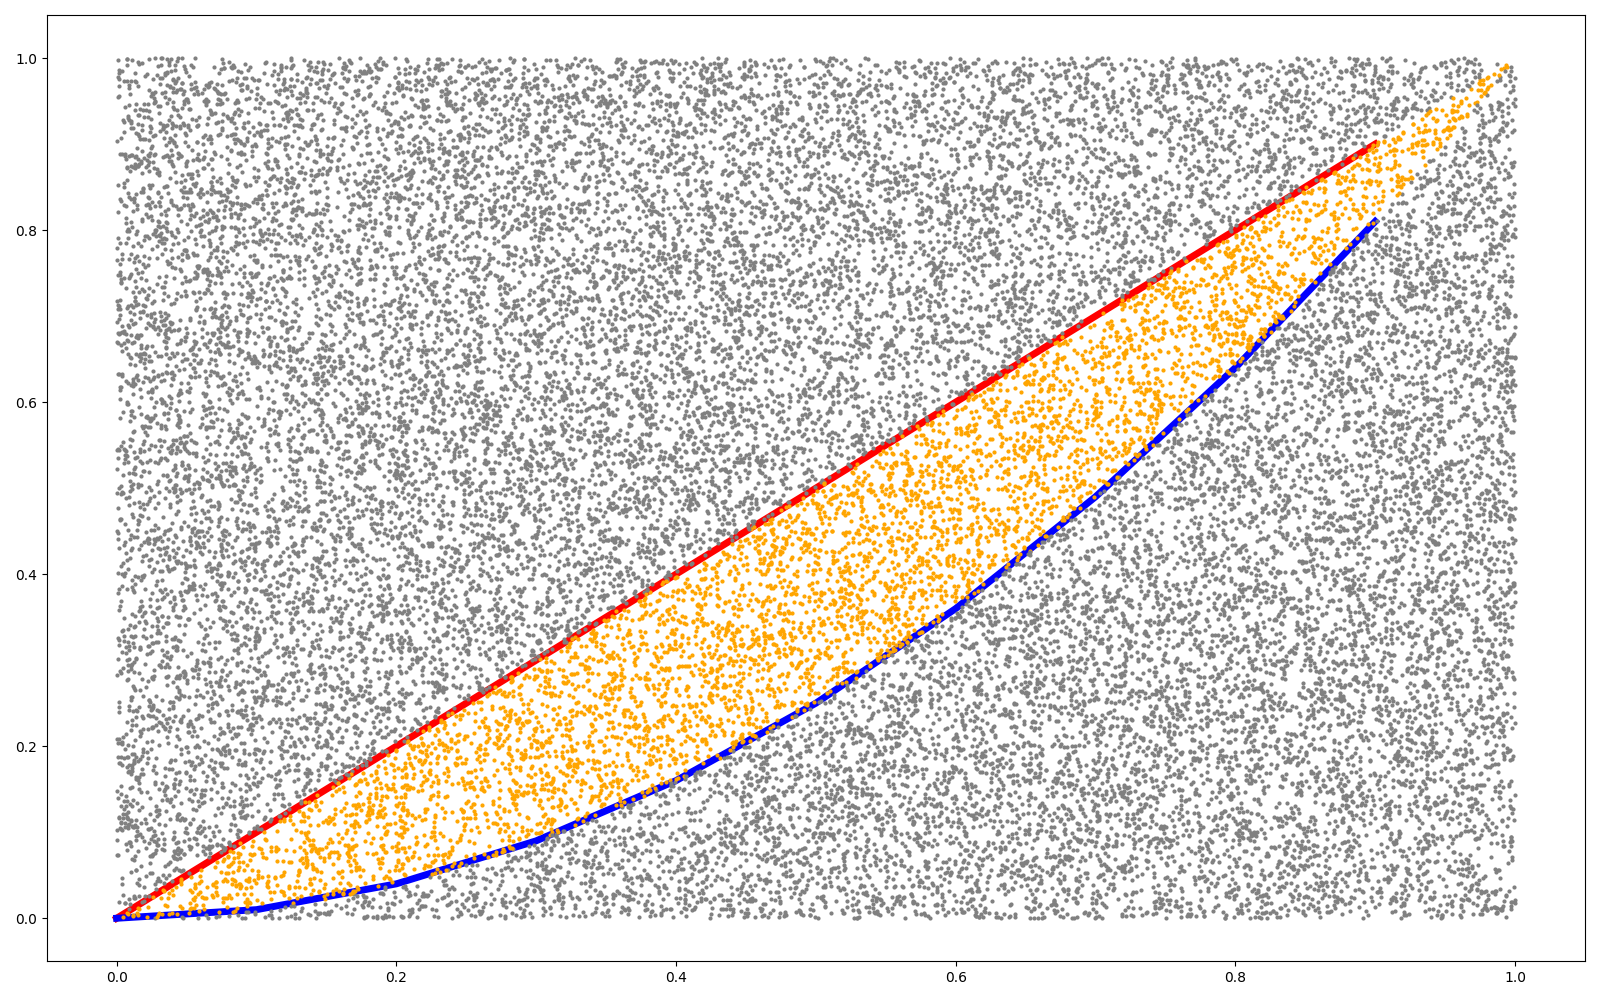
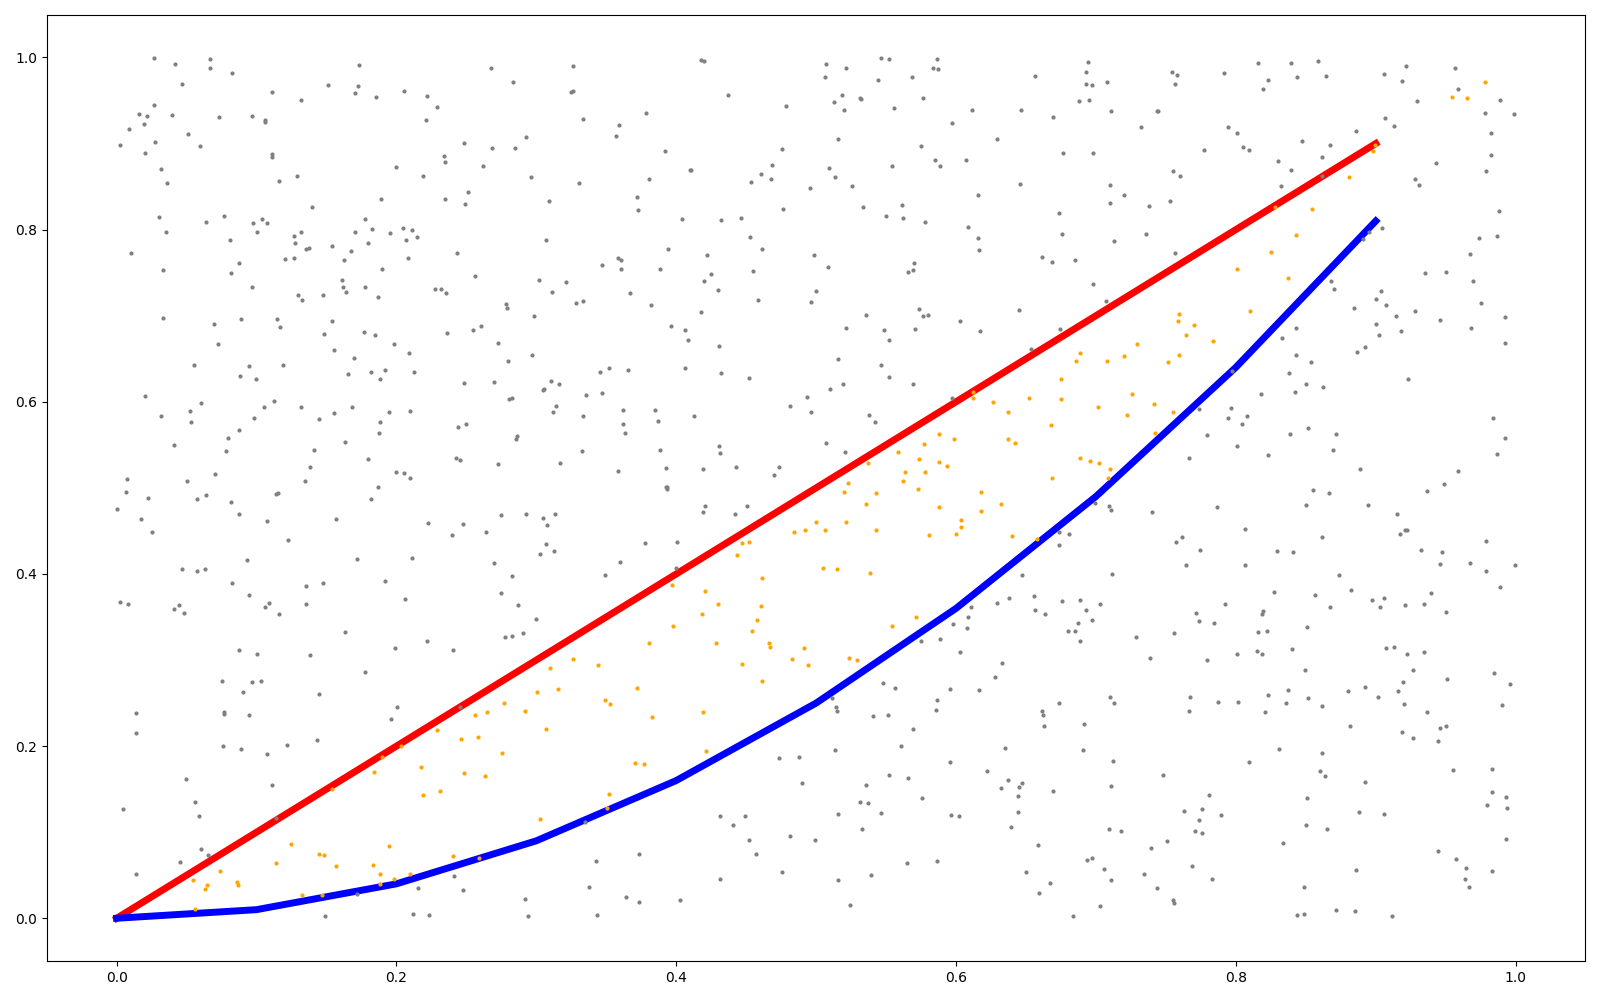
fixed typos

diff --git a/question1.py b/question1.py
@@ -3,7 +3,7 @@ from matplotlib import pyplot as plt
 import random
 
 
-numTrials = int(10**4.5)
+numTrials = int(10**3)
 
 plt.rcParams["figure.figsize"] = [16, 10]
 plt.rcParams["figure.autolayout"] = True
@@ -31,6 +31,7 @@ plt.plot(x,g(x),color='blue', linewidth=5)
 #generate random points
 points = [(random.random(), random.random()) for i in range(numTrials)]
 
+#used to keep track of the number of generated random points inside the two functions f(x) and g(x)
 count = 0
 
 #plot points
@@ -39,8 +40,7 @@ for point in points:
         if isBetween: return "orange"
         else: return "grey"
     #if point i between lines add 1 to count and draw point in orange on graph
-    pointIsBetween = pointIsBetweenCurves(point)
-    if pointIsBetween:
+    if pointIsBetween := pointIsBetweenCurves(point):
         count += 1
     plt.plot(point[0],point[1], marker="o", markersize=2, color=pointColor(pointIsBetween))
 
